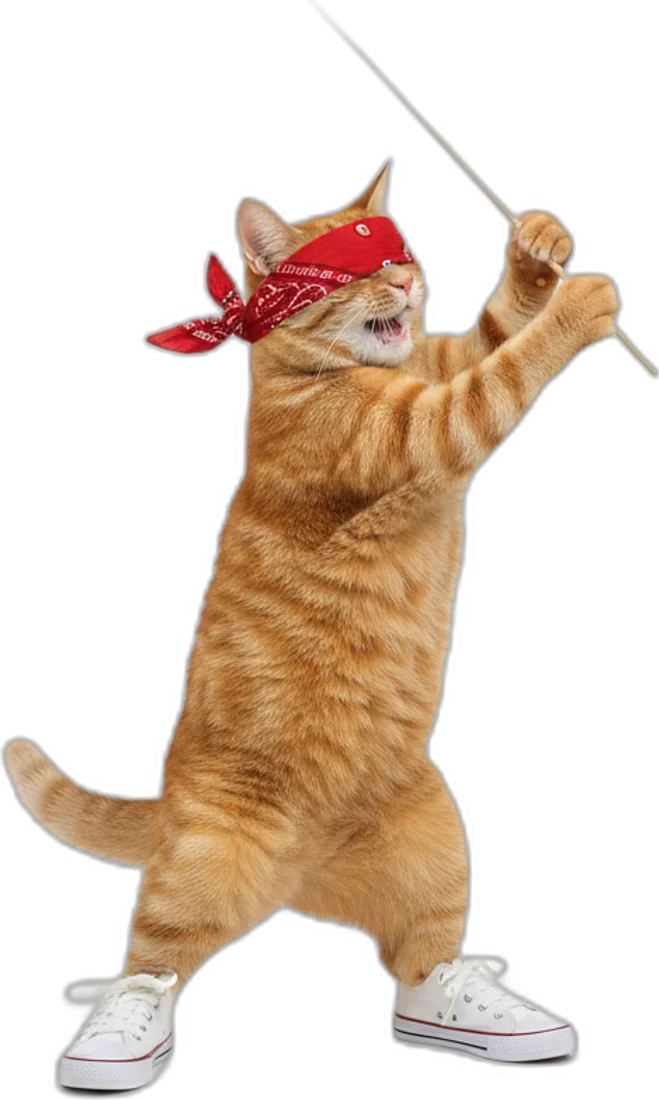
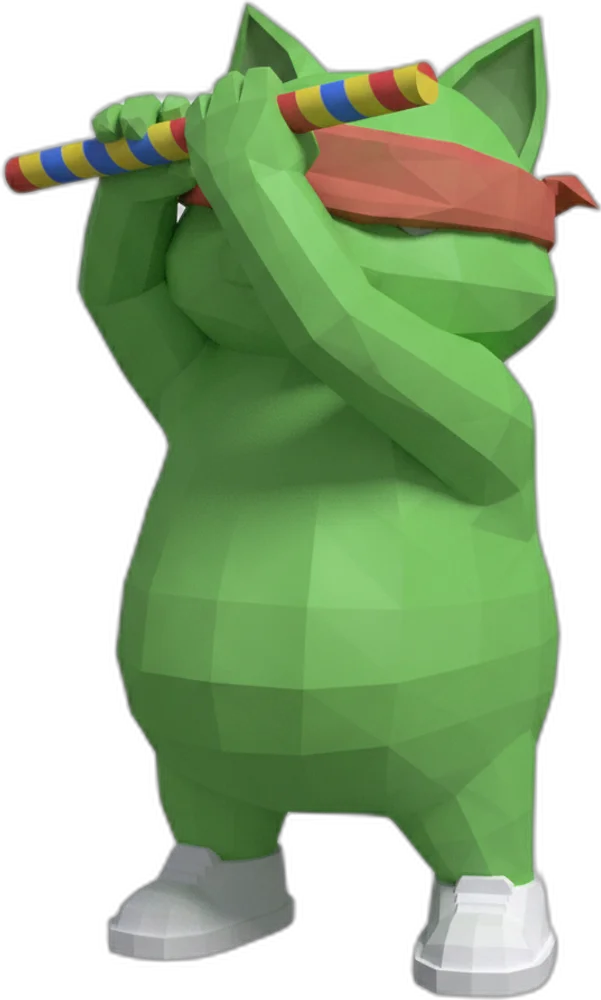
low-poly remake: green cat, backyard scene, autoplay, gote-style panel

diff --git a/index.html b/index.html
@@ -5,173 +5,133 @@
 <meta charset="UTF-8" />
 <meta name="viewport" content="width=device-width, initial-scale=1.0, viewport-fit=cover" />
 <title>Pinata Cat</title>
-<meta name="description" content="Every legendary meme is inside the pinata, three hits and they are out" />
+<meta name="description" content="A blindfolded cat, a piñata, every legendary meme inside" />
 <link rel="icon" type="image/png" href="assets/favicon.png" />
 <link rel="apple-touch-icon" href="assets/apple-icon.png" />
 <link rel="preconnect" href="https://fonts.googleapis.com" />
 <link rel="preconnect" href="https://fonts.gstatic.com" crossorigin />
-<link href="https://fonts.googleapis.com/css2?family=Anton&family=Inter:wght@400;500;600&display=swap" rel="stylesheet" />
+<link href="https://fonts.googleapis.com/css2?family=Bungee&family=Space+Mono:wght@400;700&display=swap" rel="stylesheet" />
 <style>
 :root{
-  --bg:#4b2fd8; --bg-d:#2e1a99; --ink:#120a2a; --cream:#fff6e8; --green:#22c55e; --pink:#ff3d8a; --yellow:#ffd23f; --orange:#ff7a1a; --cyan:#3ddcff;
-  --disp:"Anton",Impact,sans-serif; --sans:"Inter",system-ui,sans-serif;
-  --pad:clamp(14px,2.6vw,36px);
+  --ink:#1f1a14; --cream:#fbf5e6; --lime:#b6e83c; --pink:#ff5fa8; --orange:#ff8c3a; --dusk:#2a1a3a; --dim:#8a7a66;
+  --disp:"Bungee",system-ui,sans-serif; --mono:"Space Mono",ui-monospace,monospace;
+  --pad:clamp(14px,2.6vw,34px);
 }
 *{box-sizing:border-box;margin:0;padding:0}
 html{scroll-behavior:smooth;overflow-x:hidden}
-body{background:var(--bg);color:var(--cream);font-family:var(--sans);font-size:15px;line-height:1.5;-webkit-font-smoothing:antialiased;overflow-x:hidden}
+body{background:var(--dusk);color:var(--ink);font-family:var(--mono);font-size:14px;line-height:1.5;-webkit-font-smoothing:antialiased;overflow-x:hidden}
 img,canvas{display:block;max-width:100%}
 a{color:inherit;text-decoration:none}
 button{font:inherit;color:inherit;background:none;border:0;cursor:pointer}
 
-.chip{height:42px;display:inline-flex;align-items:center;justify-content:center;gap:8px;padding:0 18px;border-radius:999px;font-family:var(--disp);font-size:15px;letter-spacing:.08em;text-transform:uppercase;background:var(--ink);color:var(--cream);transition:transform .12s,background .15s}
-.chip:hover{transform:translateY(-2px)}
-.chip:active{transform:translateY(1px)}
-.chip.buy{background:var(--green);color:var(--ink)}
-.chip.light{background:var(--cream);color:var(--ink)}
-.chip svg{width:15px;height:15px}
-.chip img{width:24px;height:24px;border-radius:50%}
+/* bevel keys, like the references */
+.key{display:inline-flex;align-items:center;gap:8px;height:40px;padding:0 14px;font-family:var(--disp);font-size:12px;letter-spacing:.06em;background:var(--cream);color:var(--ink);border:2px solid var(--ink);box-shadow:4px 4px 0 var(--ink);transition:transform .14s,box-shadow .14s}
+.key:hover{transform:translate(-2px,-2px);box-shadow:6px 6px 0 var(--ink)}
+.key:active{transform:translate(2px,2px);box-shadow:1px 1px 0 var(--ink)}
+.key.lime{background:var(--lime)}
+.key.pink{background:var(--pink)}
+.key svg{width:14px;height:14px}
+.key img{width:24px;height:24px;border:2px solid var(--ink)}
 .btns{display:flex;gap:8px;flex-wrap:wrap}
 
-/* papel picado */
-.flags{position:absolute;left:-2%;right:-2%;top:0;height:64px;z-index:3;pointer-events:none;display:flex;justify-content:space-between;transform-origin:50% 0;animation:sway 6s ease-in-out infinite}
-@keyframes sway{0%,100%{transform:rotate(-.6deg)}50%{transform:rotate(.6deg)}}
-.flags::before{content:"";position:absolute;left:0;right:0;top:12px;height:2px;background:rgba(18,10,42,.6)}
-.flags i{width:52px;height:46px;margin-top:13px;background:var(--pink);clip-path:polygon(0 0,100% 0,100% 82%,88% 100%,76% 82%,64% 100%,52% 82%,40% 100%,28% 82%,16% 100%,4% 82%,0 100%);animation:flag 2.4s ease-in-out infinite;transform-origin:50% 0}
-.flags i:nth-child(4n+2){background:var(--yellow);animation-delay:.3s}
-.flags i:nth-child(4n+3){background:var(--cyan);animation-delay:.6s}
-.flags i:nth-child(4n+4){background:var(--orange);animation-delay:.9s}
-@keyframes flag{0%,100%{transform:skewX(0)}50%{transform:skewX(6deg)}}
+/* ================= SCENE ================= */
+.scene{position:relative;height:100svh;min-height:560px;overflow:hidden;background:var(--dusk)}
+.scene .bg{position:absolute;inset:-3%;width:106%;height:106%;object-fit:cover;object-position:50% 60%;animation:kb 24s ease-in-out infinite alternate}
+@keyframes kb{from{transform:scale(1) translate(0,0)}to{transform:scale(1.05) translate(-1%,.5%)}}
+.scan{position:absolute;inset:0;pointer-events:none;background:repeating-linear-gradient(rgba(0,0,0,.16) 0 1px,transparent 1px 3px);opacity:.45;mix-blend-mode:multiply}
+.vig{position:absolute;inset:0;pointer-events:none;background:radial-gradient(ellipse at 50% 55%,transparent 55%,rgba(31,26,20,.55) 100%)}
+.hud{position:absolute;z-index:9}
+.tl{left:var(--pad);top:var(--pad)}
+.tr{right:var(--pad);top:var(--pad);display:flex;gap:8px}
+.br{right:var(--pad);bottom:var(--pad);font-family:var(--disp);font-size:12px;letter-spacing:.1em;color:var(--cream);text-shadow:2px 2px 0 var(--ink);display:flex;gap:6px;align-items:center}
+.br i{width:12px;height:12px;background:var(--cream);border:2px solid var(--ink)}
+.br i.on{background:var(--lime)}
 
-/* ================= HERO ================= */
-.hero{position:relative;min-height:100svh;overflow:hidden;padding:calc(var(--pad) + 70px) var(--pad) var(--pad);display:grid;grid-template-columns:minmax(0,1fr) minmax(0,1.15fr);align-items:center;gap:var(--pad)}
-.top{position:absolute;left:var(--pad);right:var(--pad);top:calc(var(--pad) + 40px);z-index:9;display:flex;justify-content:space-between;align-items:center;gap:10px}
-.brand{display:flex;align-items:center;gap:10px;font-family:var(--disp);font-size:18px;letter-spacing:.1em;text-transform:uppercase}
-.brand img{width:36px;height:36px;border-radius:50%;border:2px solid var(--ink)}
-.copy{position:relative;z-index:8}
-.copy h1{font-family:var(--disp);font-size:clamp(56px,8.6vw,132px);line-height:.9;letter-spacing:.01em;text-transform:uppercase;color:var(--cream);text-shadow:6px 6px 0 var(--ink)}
-.copy h1 em{font-style:normal;color:var(--yellow)}
-.copy p{margin-top:16px;font-size:clamp(15px,1.5vw,19px);font-weight:500;max-width:36ch;color:var(--cream)}
-.copy .btns{margin-top:22px}
-.count{display:inline-flex;align-items:center;gap:10px;margin-top:18px;font-family:var(--disp);font-size:14px;letter-spacing:.14em;text-transform:uppercase;color:var(--cream)}
-.count b{display:inline-flex;gap:5px}
-.count b i{width:14px;height:14px;border-radius:50%;background:rgba(18,10,42,.35);border:2px solid var(--ink)}
-.count b i.on{background:var(--yellow)}
-
-/* stage */
-.stage{position:relative;height:min(78svh,760px);min-height:460px;z-index:5}
+.stage{position:absolute;inset:0;z-index:5}
 .stage.shake{animation:shake .4s ease}
 @keyframes shake{0%,100%{transform:translate(0,0)}20%{transform:translate(-8px,4px)}40%{transform:translate(8px,-4px)}60%{transform:translate(-5px,3px)}80%{transform:translate(5px,-2px)}}
-.rope{position:absolute;left:66%;top:-80px;width:4px;height:calc(18% + 80px);background:#c9a06a;transform-origin:50% 0;z-index:5}
-.pin{position:absolute;left:66%;top:-80px;width:min(46%,380px);transform-origin:50% 0;z-index:6;transition:transform .3s;transform:translateX(-50%)}
-.pin img{width:100%;position:absolute;left:0;top:calc(18% + 80px);opacity:0;transition:opacity .15s}
-.pin img.on{opacity:1}
-.pin{animation:pend 4.2s ease-in-out infinite}
+.pin{position:absolute;left:64%;top:6%;width:min(28vw,340px);transform-origin:50% 0;transform:translateX(-50%);animation:pend 4.2s ease-in-out infinite;filter:drop-shadow(0 18px 14px rgba(0,0,0,.35))}
 @keyframes pend{0%,100%{transform:translateX(-50%) rotate(-4deg)}50%{transform:translateX(-50%) rotate(4deg)}}
+.pin img{width:100%;position:absolute;left:0;top:0;opacity:0;transition:opacity .12s}
+.pin img.on{opacity:1}
 .pin.hitL{animation:hitL .9s cubic-bezier(.2,1.4,.4,1)}
 @keyframes hitL{0%{transform:translateX(-50%) rotate(0)}25%{transform:translateX(-50%) rotate(34deg)}60%{transform:translateX(-50%) rotate(-14deg)}100%{transform:translateX(-50%) rotate(0)}}
 .pin.gone{animation:none;transform:translateX(-50%) rotate(0)}
 .pin.drop{animation:drop .9s cubic-bezier(.2,1.3,.4,1)}
-@keyframes drop{from{transform:translateX(-50%) translateY(-120%)}to{transform:translateX(-50%) translateY(0)}}
-.cat{position:absolute;left:0;bottom:2%;width:min(60%,520px);z-index:7}
-.cat img{width:100%;position:absolute;left:0;bottom:0;opacity:0;transition:opacity .08s}
-.cat img.on{opacity:1}
-.cat{animation:bob 3s ease-in-out infinite}
+@keyframes drop{from{transform:translateX(-50%) translateY(-140%)}to{transform:translateX(-50%) translateY(0)}}
+.cat{position:absolute;left:22%;bottom:6%;width:min(34vw,420px);aspect-ratio:1;animation:bob 3s ease-in-out infinite;filter:drop-shadow(0 22px 16px rgba(0,0,0,.4))}
 @keyframes bob{0%,100%{transform:translateY(0)}50%{transform:translateY(-8px)}}
-.floor{position:absolute;left:-10%;right:-10%;bottom:0;height:6px;background:rgba(18,10,42,.35);border-radius:50%;filter:blur(4px)}
+.cat img{width:100%;height:100%;object-fit:contain;object-position:50% 100%;position:absolute;left:0;bottom:0;opacity:0;transition:opacity .08s}
+.cat img.on{opacity:1}
 .fx{position:absolute;inset:0;z-index:8;pointer-events:none}
+.mark{position:absolute;left:var(--pad);bottom:var(--pad);z-index:9;font-family:var(--disp);font-size:clamp(26px,4vw,54px);line-height:.95;color:var(--cream);-webkit-text-stroke:2px var(--ink);paint-order:stroke fill;text-shadow:5px 5px 0 var(--ink);pointer-events:none}
+.mark em{font-style:normal;color:var(--lime)}
 
-/* ================= INSIDE ================= */
-.inside{padding:clamp(40px,6vw,80px) var(--pad);background:var(--bg-d)}
-.inside .h{font-family:var(--disp);font-size:clamp(36px,5vw,72px);line-height:.95;text-transform:uppercase;color:var(--cream);text-shadow:4px 4px 0 var(--ink);text-align:center}
-.inside .h em{font-style:normal;color:var(--yellow)}
-.inside .s{text-align:center;font-weight:500;margin-top:10px;margin-bottom:26px;color:var(--cream)}
-.grid{display:grid;grid-template-columns:repeat(5,1fr);gap:12px;width:min(1180px,100%);margin:0 auto}
-.card{background:var(--cream);color:var(--ink);border-radius:20px;padding:14px 12px 14px;text-align:center;box-shadow:0 8px 0 var(--ink);transition:transform .2s}
-.card:hover{transform:translateY(-6px) rotate(-1.5deg)}
-.card img{width:70%;margin:0 auto 10px;aspect-ratio:1;object-fit:contain}
-.card b{display:block;font-family:var(--disp);font-size:18px;letter-spacing:.06em;text-transform:uppercase}
-.card span{display:block;font-size:12.5px;font-weight:500;color:#4a3f6b;margin-top:3px;white-space:pre-line;line-height:1.35}
+/* ================= PANEL (gote style) ================= */
+.panel{position:relative;z-index:2;background:var(--cream);border-top:4px solid var(--ink);padding:clamp(28px,5vw,60px) var(--pad)}
+.tiles{display:grid;grid-template-columns:repeat(5,1fr);gap:10px;width:min(1120px,100%);margin:0 auto}
+.tile{background:#fff;border:2px solid var(--ink);box-shadow:4px 4px 0 var(--ink);padding:12px 8px 10px;text-align:center;transition:transform .14s,box-shadow .14s}
+.tile:hover{transform:translate(-2px,-2px);box-shadow:6px 6px 0 var(--ink)}
+.tile img{width:64%;aspect-ratio:1;object-fit:contain;margin:0 auto 8px}
+.tile b{display:block;font-family:var(--disp);font-size:11px;letter-spacing:.04em}
+.sign{width:min(600px,100%);margin:clamp(24px,4vw,44px) auto 0;background:#fff;border:2px solid var(--ink);box-shadow:6px 6px 0 var(--ink);padding:16px;display:grid;gap:12px;justify-items:center}
+.ca{display:grid;justify-items:center;gap:8px;width:100%;padding:14px 16px;background:var(--ink);color:var(--cream);cursor:pointer}
+.ca .tag{font-family:var(--disp);font-size:10px;letter-spacing:.3em;color:var(--pink)}
+.ca .ca-val{font-family:var(--mono);font-weight:700;font-size:22px;letter-spacing:.06em;color:var(--lime);white-space:nowrap;max-width:100%;line-height:1.2}
+.ca.live .ca-val{font-size:clamp(10px,2.4vw,15px);letter-spacing:.02em}
+.ca .cp{font-family:var(--disp);font-size:10px;letter-spacing:.16em;color:var(--cream);padding:6px 12px;border:2px dashed rgba(251,245,230,.5)}
+.ca.live{box-shadow:0 0 0 3px var(--lime),0 0 30px rgba(182,232,60,.55)}
+.ca.live .cp{border-style:solid;border-color:var(--lime);color:var(--lime)}
+.sign .btns{justify-content:center}
+.end{width:min(1120px,100%);margin:24px auto 0;display:flex;justify-content:space-between;gap:12px;flex-wrap:wrap;font-family:var(--disp);font-size:9px;letter-spacing:.08em;color:var(--dim)}
 
-/* ================= TICKET ================= */
-.ticket{padding:clamp(40px,6vw,80px) var(--pad) clamp(50px,7vw,90px);display:grid;justify-items:center;gap:18px}
-.wrap{width:min(600px,100%);background:var(--cream);color:var(--ink);border-radius:24px;padding:clamp(18px,3vw,28px);display:grid;gap:14px;justify-items:center;text-align:center;box-shadow:0 10px 0 var(--ink)}
-.wrap .l{font-family:var(--disp);font-size:16px;letter-spacing:.2em;text-transform:uppercase;color:#4a3f6b}
-.ca{display:grid;justify-items:center;gap:8px;width:100%;padding:14px 16px;border-radius:16px;background:var(--ink);color:var(--cream);cursor:pointer}
-.ca .tag{font-family:var(--disp);font-size:12px;letter-spacing:.3em;color:var(--yellow)}
-.ca .ca-val{font-family:var(--disp);font-size:28px;letter-spacing:.08em;color:var(--cream);white-space:nowrap;max-width:100%;line-height:1.1}
-.ca.live .ca-val{font-family:var(--sans);font-weight:600;font-size:clamp(11px,2.9vw,16px);letter-spacing:0;color:var(--green)}
-.ca .cp{font-family:var(--disp);font-size:12px;letter-spacing:.16em;color:var(--cream);padding:6px 14px;border-radius:999px;border:2px dashed rgba(255,246,232,.45)}
-.ca.live{box-shadow:0 0 0 3px var(--green)}
-.ca.live .cp{border-style:solid;border-color:var(--green);color:var(--green)}
-.wrap .btns{justify-content:center}
-.end{display:flex;justify-content:space-between;gap:12px;flex-wrap:wrap;width:min(1180px,100%);font-family:var(--disp);font-size:12px;letter-spacing:.16em;text-transform:uppercase;color:rgba(255,246,232,.7)}
-
-@media (max-width:900px){
-  .hero{grid-template-columns:1fr;padding-top:calc(var(--pad) + 96px);gap:8px;align-items:start}
-  .copy{text-align:center}
-  .copy p{margin-left:auto;margin-right:auto}
-  .copy .btns{justify-content:center}
-  .copy h1{font-size:clamp(52px,15vw,84px)}
-  .stage{height:min(58svh,520px);min-height:380px}
-  .pin{width:min(52%,300px);left:68%}
-  .rope{left:68%}
-  .cat{width:min(64%,380px)}
-  .top .chip span{display:none}
-  .top .chip{padding:0 13px}
-  .brand span{display:none}
-  .grid{grid-template-columns:repeat(2,1fr)}
-  .ca .ca-val{font-size:22px}
+@media (max-width:820px){
+  .tr .key span{display:none}
+  .tr .key{padding:0 11px}
+  .tl .key span{display:none}
+  .pin{left:68%;top:8%;width:min(46vw,240px)}
+  .cat{left:4%;bottom:14%;width:min(58vw,300px)}
+  .mark{font-size:26px;bottom:calc(var(--pad) + 30px)}
+  .br{bottom:var(--pad)}
+  .tiles{grid-template-columns:repeat(2,1fr)}
+  .ca .ca-val{font-size:18px}
+  .scene .bg{object-position:60% 60%}
 }
 @media (prefers-reduced-motion:reduce){*{animation:none !important;transition:none !important}}
 </style>
 </head>
 <body>
 
-<section class="hero" id="hero">
-  <div class="flags" aria-hidden="true"><i></i><i></i><i></i><i></i><i></i><i></i><i></i><i></i><i></i><i></i><i></i><i></i><i></i><i></i><i></i><i></i><i></i><i></i><i></i><i></i><i></i><i></i><i></i><i></i><i></i><i></i><i></i><i></i></div>
-  <div class="top">
-    <a class="brand" href="/"><img src="assets/avatar.webp" alt="" /><span data-name>Pinata Cat</span></a>
-    <nav class="btns">
-      <a class="chip buy" data-link="pons" href="https://www.ponsfamily.com/launchpad"><span>Buy</span><svg><use href="#i-pons"/></svg></a>
-      <a class="chip" data-link="x" href="https://x.com" aria-label="X"><svg><use href="#i-x"/></svg></a>
-      <a class="chip light" href="/docs"><span>Docs</span></a>
-    </nav>
-  </div>
-
-  <div class="copy">
-    <h1 id="h1">HIT THE<br /><em>PIÑATA</em></h1>
-    <p id="lead">Every legendary meme is inside, three hits and they are all out</p>
-    <div class="btns"><a class="chip buy" data-link="pons" href="https://www.ponsfamily.com/launchpad">Buy on Pons<svg><use href="#i-pons"/></svg></a><a class="chip light" href="#inside">Who is inside</a></div>
-    <div class="count">Hits <b id="dots"><i></i><i></i><i></i></b><span id="out"></span></div>
-  </div>
-
+<section class="scene" id="scene">
+  <img class="bg" src="assets/bg.webp" alt="" />
   <div class="stage" id="stage">
-    <div class="rope" id="rope"></div>
-    <div class="pin" id="pin"><img class="on" src="assets/pinata-0.webp" alt="" /><img src="assets/pinata-1.webp" alt="" /><img src="assets/pinata-2.webp" alt="" /></div>
+    <div class="pin" id="pin"><img class="on" src="assets/pin-0.webp" alt="" /><img src="assets/pin-1.webp" alt="" /><img src="assets/pin-2.webp" alt="" /></div>
     <div class="cat" id="cat"><img class="on" src="assets/cat-idle.webp" alt="" /><img src="assets/cat-up.webp" alt="" /><img src="assets/cat-hit.webp" alt="" /></div>
-    <div class="floor"></div>
     <canvas class="fx" id="fx"></canvas>
   </div>
+  <div class="scan"></div><div class="vig"></div>
+
+  <a class="hud tl key" href="/"><img src="assets/favicon.png" alt="" /><span data-name>PINATA CAT</span></a>
+  <nav class="hud tr">
+    <a class="key lime" data-link="pons" href="https://www.ponsfamily.com/launchpad"><span>BUY</span><svg><use href="#i-pons"/></svg></a>
+    <a class="key" data-link="x" href="https://x.com" aria-label="X"><svg><use href="#i-x"/></svg></a>
+    <a class="key pink" href="/docs"><span>DOCS</span></a>
+  </nav>
+  <div class="mark">PINATA<br /><em>CAT</em></div>
+  <div class="hud br"><i></i><i></i><i></i></div>
 </section>
 
-<section class="inside" id="inside">
-  <h2 class="h">WHO WAS <em>INSIDE</em></h2>
-  <p class="s">Ten of them, all paper, all legendary, none of them asked to be in there</p>
-  <div class="grid" id="grid"></div>
-</section>
-
-<section class="ticket" id="ticket">
-  <div class="wrap">
-    <div class="l">The wrapper</div>
+<section class="panel" id="panel">
+  <div class="tiles" id="tiles"></div>
+  <div class="sign">
     <div class="ca" id="ca"><span class="tag">CONTRACT</span><b class="ca-val" id="caVal">soon</b><button class="cp" id="caCopy">[ COPY ]</button></div>
     <div class="btns">
-      <a class="chip buy" data-link="pons" href="https://www.ponsfamily.com/launchpad">Buy on Pons<svg><use href="#i-pons"/></svg></a>
-      <a class="chip" data-link="x" href="https://x.com" aria-label="X"><svg><use href="#i-x"/></svg></a>
-      <a class="chip light" href="/docs">Docs</a>
+      <a class="key lime" data-link="pons" href="https://www.ponsfamily.com/launchpad">BUY ON PONS<svg><use href="#i-pons"/></svg></a>
+      <a class="key" data-link="x" href="https://x.com" aria-label="X"><svg><use href="#i-x"/></svg></a>
+      <a class="key pink" href="/docs">DOCS</a>
     </div>
   </div>
-  <div class="end"><span data-name>Pinata Cat</span><span>Robinhood Chain · Pons · three hits</span></div>
+  <div class="end"><span data-name>PINATA CAT</span><span>ROBINHOOD CHAIN · PONS</span></div>
 </section>
 
 <audio id="bgm" src="assets/music.mp3" loop preload="none"></audio>
@@ -184,7 +144,7 @@ button{font:inherit;color:inherit;background:none;border:0;cursor:pointer}
 <script>
 (function(){
   var S = window.SITE, CA = (S.CA||"SOON").trim(), HAS_CA = CA !== "SOON" && CA !== "";
-  document.querySelectorAll('[data-name]').forEach(function(e){ e.textContent = S.NAME; });
+  document.querySelectorAll('[data-name]').forEach(function(e){ e.textContent = S.NAME.toUpperCase(); });
   document.title = S.NAME;
   document.querySelectorAll('[data-link="pons"]').forEach(function(a){ a.href = HAS_CA ? window.PONS_HOME + '/' + CA : window.PONS_HOME; a.target='_blank'; a.rel='noopener'; });
   document.querySelectorAll('[data-link="x"]').forEach(function(a){ a.href = S.X_URL || 'https://x.com'; a.target='_blank'; a.rel='noopener'; });
@@ -199,54 +159,49 @@ button{font:inherit;color:inherit;background:none;border:0;cursor:pointer}
   document.addEventListener('pointerdown', arm, true); document.addEventListener('keydown', arm, true);
 
   /* ---- the memes ---- */
-  var memes = [
-    ['doge', 'Doge', 'Much inside\nVery out now'], ['pepe', 'Pepe', 'Feels good to be out\nFor about a minute'], ['wojak', 'Wojak', 'Was already sad in there'], ['troll', 'Trollface', 'Problem?'],
-    ['cheems', 'Cheems', 'Did not want to be hit\nWas hit'], ['chad', 'Gigachad', 'Took the hit\nDid not move'], ['grumpy', 'Grumpy Cat', 'No'], ['nyan', 'Nyan Cat', 'Left a rainbow on the way out'],
-    ['stonks', 'Stonks', 'Came out up\nWent down after'], ['amogus', 'Amogus', 'Was sus in there\nStill sus']
-  ];
-  var grid = document.getElementById('grid'), imgs = {};
-  memes.forEach(function(m){ var c = document.createElement('div'); c.className = 'card'; c.innerHTML = '<img src="assets/m-' + m[0] + '.webp" alt="" /><b>' + m[1] + '</b><span>' + m[2] + '</span>'; grid.appendChild(c); var im = new Image(); im.src = 'assets/m-' + m[0] + '.webp'; imgs[m[0]] = im; });
+  var memes = [['doge','Doge'],['pepe','Pepe'],['wojak','Wojak'],['troll','Troll'],['cheems','Cheems'],['chad','Gigachad'],['grumpy','Grumpy'],['nyan','Nyan'],['stonks','Stonks'],['amogus','Amogus']];
+  var tiles = document.getElementById('tiles'), imgs = {};
+  memes.forEach(function(m){ var t = document.createElement('div'); t.className = 'tile'; t.innerHTML = '<img src="assets/' + m[0] + '.webp" alt="" /><b>' + m[1] + '</b>'; tiles.appendChild(t); var im = new Image(); im.src = 'assets/' + m[0] + '.webp'; imgs[m[0]] = im; });
 
   /* ---- fx canvas ---- */
   var stage = document.getElementById('stage'), fx = document.getElementById('fx'), g = fx.getContext('2d'), parts = [], raf = null;
   function size(){ fx.width = stage.clientWidth * devicePixelRatio; fx.height = stage.clientHeight * devicePixelRatio; g.setTransform(devicePixelRatio, 0, 0, devicePixelRatio, 0, 0); }
   size(); addEventListener('resize', size);
-  var cols = ['#ff3d8a', '#ffd23f', '#3ddcff', '#ff7a1a', '#22c55e', '#fff6e8'];
+  var cols = ['#ff5fa8', '#ffd23f', '#3ddcff', '#ff8c3a', '#b6e83c', '#fbf5e6'];
   function pinPoint(){ var r = document.getElementById('pin').getBoundingClientRect(), s = stage.getBoundingClientRect(); return { x: r.left - s.left + r.width / 2, y: r.top - s.top + r.height * .55 }; }
   function confetti(n, big){ var p = pinPoint(); for(var i = 0; i < n; i++) parts.push({ t: 'c', x: p.x, y: p.y, vx: (Math.random() - .5) * (big ? 26 : 14), vy: -Math.random() * (big ? 18 : 10) - 2, g: .35, w: 5 + Math.random() * 7, h: 7 + Math.random() * 9, a: Math.random() * 6, va: (Math.random() - .5) * .4, c: cols[i % cols.length], life: 110 + Math.random() * 60 }); loop(); }
-  function burst(){ var p = pinPoint(), W = stage.clientWidth, sz = Math.min(150, Math.max(84, W * .16)); memes.forEach(function(m, i){ var ang = -Math.PI / 2 + (i - 4.5) / 4.5 * 1.1; var sp = 13 + Math.random() * 7; parts.push({ t: 'm', img: imgs[m[0]], x: p.x, y: p.y, vx: Math.cos(ang) * sp + (Math.random() - .5) * 4, vy: Math.sin(ang) * sp - 4, g: .5, s: sz, a: 0, va: (Math.random() - .5) * .3, rest: 0 }); }); confetti(220, true); loop(); }
+  function burst(){ var p = pinPoint(), W = stage.clientWidth, sz = Math.min(150, Math.max(84, W * .15)); memes.forEach(function(m, i){ var ang = -Math.PI / 2 + (i - 4.5) / 4.5 * 1.1; var sp = 13 + Math.random() * 7; parts.push({ t: 'm', img: imgs[m[0]], x: p.x, y: p.y, vx: Math.cos(ang) * sp + (Math.random() - .5) * 4, vy: Math.sin(ang) * sp - 4, g: .5, s: sz, a: 0, va: (Math.random() - .5) * .3, rest: 0 }); }); confetti(220, true); loop(); }
   function loop(){ if(raf) return; raf = requestAnimationFrame(step); }
   function step(){
     var W = stage.clientWidth, H = stage.clientHeight; g.clearRect(0, 0, W, H); var alive = 0;
     parts.forEach(function(p){
       if(p.t === 'c'){ p.life--; if(p.life <= 0) return; alive++; p.vy += p.g; p.vx *= .99; p.x += p.vx; p.y += p.vy; p.a += p.va; if(p.y > H + 20) p.life = 0; g.save(); g.translate(p.x, p.y); g.rotate(p.a); g.globalAlpha = Math.min(1, p.life / 40); g.fillStyle = p.c; g.fillRect(-p.w / 2, -p.h / 2, p.w, p.h); g.restore(); }
-      else { var floor = H - 10 - p.s / 2; if(p.rest < 3){ alive++; p.vy += p.g; p.x += p.vx; p.y += p.vy; p.a += p.va; if(p.y > floor){ p.y = floor; p.vy = -p.vy * .45; p.vx *= .8; p.va *= .6; if(Math.abs(p.vy) < 1.2){ p.vy = 0; p.rest++; } } if(p.x < p.s / 2){ p.x = p.s / 2; p.vx = -p.vx * .6; } if(p.x > W - p.s / 2){ p.x = W - p.s / 2; p.vx = -p.vx * .6; } } g.save(); g.translate(p.x, p.y); g.rotate(p.a); if(p.img.complete) g.drawImage(p.img, -p.s / 2, -p.s / 2, p.s, p.s); g.restore(); }
+      else { var floor = H * .9 - p.s / 2; if(p.rest < 3){ alive++; p.vy += p.g; p.x += p.vx; p.y += p.vy; p.a += p.va; if(p.y > floor){ p.y = floor; p.vy = -p.vy * .45; p.vx *= .8; p.va *= .6; if(Math.abs(p.vy) < 1.2){ p.vy = 0; p.rest++; } } if(p.x < p.s / 2){ p.x = p.s / 2; p.vx = -p.vx * .6; } if(p.x > W - p.s / 2){ p.x = W - p.s / 2; p.vx = -p.vx * .6; } } g.save(); g.translate(p.x, p.y); g.rotate(p.a); if(p.img.complete) g.drawImage(p.img, -p.s / 2, -p.s / 2, p.s, p.s); g.restore(); }
     });
     parts = parts.filter(function(p){ return p.t === 'm' || p.life > 0; });
     if(alive){ raf = requestAnimationFrame(step); } else raf = null;
   }
 
-  /* ---- hits ---- */
-  var cat = [].slice.call(document.querySelectorAll('#cat img')), pinImgs = [].slice.call(document.querySelectorAll('#pin img')), pin = document.getElementById('pin'), dots = [].slice.call(document.querySelectorAll('#dots i')), h1 = document.getElementById('h1'), lead = document.getElementById('lead'), out = document.getElementById('out'), hits = 0, busy = false, done = false;
+  /* ---- the swing, on its own ---- */
+  var cat = [].slice.call(document.querySelectorAll('#cat img')), pinImgs = [].slice.call(document.querySelectorAll('#pin img')), pin = document.getElementById('pin'), dots = [].slice.call(document.querySelectorAll('.br i')), hits = 0, busy = false, done = false;
   function pose(i){ cat.forEach(function(im, j){ im.classList.toggle('on', j === i); }); }
   function hit(){
     if(busy || done) return; busy = true;
-    pose(1); setTimeout(function(){ pose(2); }, 160);
+    pose(1); setTimeout(function(){ pose(2); }, 180);
     setTimeout(function(){
       hits++; dots.forEach(function(d, i){ d.classList.toggle('on', i < hits); });
       stage.classList.remove('shake'); void stage.offsetWidth; stage.classList.add('shake');
       pin.classList.remove('hitL'); void pin.offsetWidth; pin.classList.add('hitL');
-      if(hits < 3){ pinImgs.forEach(function(im, i){ im.classList.toggle('on', i === Math.min(1, hits)); }); confetti(60 + hits * 30, false); h1.innerHTML = hits === 1 ? 'ONE MORE<br /><em>TIME</em>' : 'IT IS<br /><em>CRACKING</em>'; lead.textContent = hits === 1 ? 'It moved, something moved inside too' : 'You can hear them in there'; }
-      else { pinImgs.forEach(function(im, i){ im.classList.toggle('on', i === 2); }); pin.classList.add('gone'); burst(); done = true; h1.innerHTML = 'THEY ARE<br /><em>ALL OUT</em>'; lead.textContent = 'Ten memes on the floor, the piñata is empty, hang a new one'; out.textContent = '10 memes out'; }
-    }, 330);
-    setTimeout(function(){ pose(0); busy = false; }, 760);
+      if(hits < 3){ pinImgs.forEach(function(im, i){ im.classList.toggle('on', i === Math.min(1, hits)); }); confetti(60 + hits * 30, false); }
+      else { pinImgs.forEach(function(im, i){ im.classList.toggle('on', i === 2); }); pin.classList.add('gone'); burst(); done = true; }
+    }, 360);
+    setTimeout(function(){ pose(0); busy = false; }, 800);
   }
-  function reset(){ done = false; hits = 0; parts = []; g.clearRect(0, 0, fx.width, fx.height); dots.forEach(function(d){ d.classList.remove('on'); }); pinImgs.forEach(function(im, i){ im.classList.toggle('on', i === 0); }); pin.classList.remove('gone', 'hitL'); h1.innerHTML = 'HIT THE<br /><em>PIÑATA</em>'; lead.textContent = 'Every legendary meme is inside, three hits and they are all out'; out.textContent = ''; pin.classList.add('drop'); setTimeout(function(){ pin.classList.remove('drop'); }, 900); }
-  /* autoplay: the cat swings on its own, forever */
+  function reset(){ done = false; hits = 0; parts = []; g.clearRect(0, 0, fx.width, fx.height); dots.forEach(function(d){ d.classList.remove('on'); }); pinImgs.forEach(function(im, i){ im.classList.toggle('on', i === 0); }); pin.classList.remove('gone', 'hitL'); pin.classList.add('drop'); setTimeout(function(){ pin.classList.remove('drop'); }, 900); }
   var visible = true;
   if('IntersectionObserver' in window){ new IntersectionObserver(function(en){ visible = en[0].isIntersecting; }, { threshold: .2 }).observe(stage); }
   function cycle(){ if(!visible){ setTimeout(cycle, 800); return; } if(done){ reset(); setTimeout(cycle, 2200); return; } hit(); setTimeout(cycle, hits >= 3 ? 5200 : 1900); }
-  setTimeout(cycle, 1600);
+  setTimeout(cycle, 1400);
   window.__pc = { hit: hit, reset: reset, hits: function(){ return hits; } };
 })();
 </script>

diff --git a/docs.html b/docs.html
@@ -109,19 +109,19 @@ Everything else is inside it</p>
 
     <section id="what" class="sec">
       <h2><i>01 · OVERVIEW</i>What is <span data-name>Pinata Cat</span></h2>
-      <p>A blindfolded orange cat with a striped stick and a green star piñata on a rope. Inside the piñata are ten legendary memes, cut out of paper. Three hits and they all fall out onto the floor. Then you hang a new one.</p>
-      <p>The cat is a photo, the piñata is a photo, the memes are paper cut-outs, the background is one flat colour. That is the whole look.</p>
+      <p>A blindfolded green cat with a striped stick and a green star piñata on a branch in a backyard at dusk. Inside the piñata are ten legendary memes. Three hits and they all fall out onto the lawn. Then a new one drops from the tree and it starts again, on its own.</p>
+      <p>Everything looks like a 2003 console game, the same green low-poly crowd as the diner and the night bus.</p>
       <div class="rows">
-        <dl class="row"><dt>Character</dt><dd>A chunky orange tabby standing on two legs, red bandana over the eyes, white sneakers, never misses anyway</dd></dl>
-        <dl class="row"><dt>The piñata</dt><dd>A classic seven-point star in green tissue paper, the Robinhood colour, with magenta and orange tips</dd></dl>
-        <dl class="row"><dt>The format</dt><dd>One hero scene you hit with a button, then the paper memes on cards, then the wrapper with the contract</dd></dl>
+        <dl class="row"><dt>Character</dt><dd>A chunky green low-poly cat on two legs, red blindfold, white sneakers, never misses anyway</dd></dl>
+        <dl class="row"><dt>The piñata</dt><dd>A seven-point star in green, the Robinhood colour, magenta and orange tips, hangs from the tree</dd></dl>
+        <dl class="row"><dt>The format</dt><dd>One scene that plays by itself, then the ten memes on tiles, then the contract</dd></dl>
         <dl class="row"><dt>Chain</dt><dd>Robinhood Chain, token through the Pons launchpad</dd></dl>
       </div>
     </section>
 
     <section id="inside" class="sec">
       <h2><i>02 · MANIFEST</i>Who is inside</h2>
-      <div class="tree"><b>ten memes, paper</b>
+      <div class="tree"><b>ten memes, low poly</b>
 ├── Doge          much inside, very out now
 ├── Pepe          feels good to be out, for about a minute
 ├── Wojak         was already sad in there
@@ -146,16 +146,16 @@ Everything else is inside it</p>
     <section id="site" class="sec">
       <h2><i>04 · CONTROLS</i>Using the site</h2>
       <div class="rows">
-        <dl class="row"><dt>Hit</dt><dd>The pink HIT IT button, a click on the piñata itself, or <span class="kbd">Space</span> and <span class="kbd">Enter</span>. The cat winds up, swings, the screen shakes</dd></dl>
-        <dl class="row"><dt>Counter</dt><dd>Three dots under the headline fill in with each hit</dd></dl>
+        <dl class="row"><dt>The swing</dt><dd>Runs on its own every couple of seconds while the scene is on screen. The cat winds up, swings, the screen shakes</dd></dl>
+        <dl class="row"><dt>Counter</dt><dd>Three squares in the corner fill in with each hit</dd></dl>
         <dl class="row"><dt>Sound</dt><dd>Quiet until you tap. Your first click anywhere starts a short party loop</dd></dl>
-        <dl class="row"><dt>Below</dt><dd>The ten memes on paper cards, then the wrapper with the contract, BUY, X and this page</dd></dl>
+        <dl class="row"><dt>Below</dt><dd>The ten memes on tiles, then the contract, BUY, X and this page</dd></dl>
       </div>
     </section>
 
     <section id="token" class="sec">
       <h2><i>05 · TOKEN</i>Token</h2>
-      <p>The token launches on Robinhood Chain through the Pons launchpad. The contract goes onto the wrapper at the bottom of the main page and here. Until then both say soon and the copy button says not yet.</p>
+      <p>The token launches on Robinhood Chain through the Pons launchpad. The contract goes onto the sign under the tiles on the main page and here. Until then both say soon and the copy button says not yet.</p>
       <div class="ca" id="ca"><small>CONTRACT</small><b id="caVal">soon</b><button class="copy" id="caCopy">COPY</button></div>
       <div class="links">
         <a class="btn buy" data-link="pons" href="https://www.ponsfamily.com/launchpad">Buy on Pons<svg><use href="#i-pons"/></svg></a>
@@ -183,8 +183,8 @@ Everything else is inside it</p>
       <div class="faq">
         <div><b>Why is the cat blindfolded</b><span>Piñata rules. It hits anyway, every time, it is a cat</span></div>
         <div><b>Why is the piñata green</b><span>Same green as the app that started all this. It cracks the same way too</span></div>
-        <div><b>Why paper memes</b><span>Everything that comes out of a piñata is paper for a while. They will be fine</span></div>
-        <div><b>Can I hit it more than three times</b><span>After three it is empty. Hang a new one, it is free</span></div>
+        <div><b>Why green</b><span>Same green as the diner and the bus. Everyone on this chain is green until proven otherwise</span></div>
+        <div><b>Can I hit it myself</b><span>No. The cat does not take requests, it has a rhythm</span></div>
         <div><b>What happens at launch</b><span>The contract goes onto the wrapper, the buy button starts pointing at the token page, the cat keeps swinging</span></div>
       </div>
     </section>
